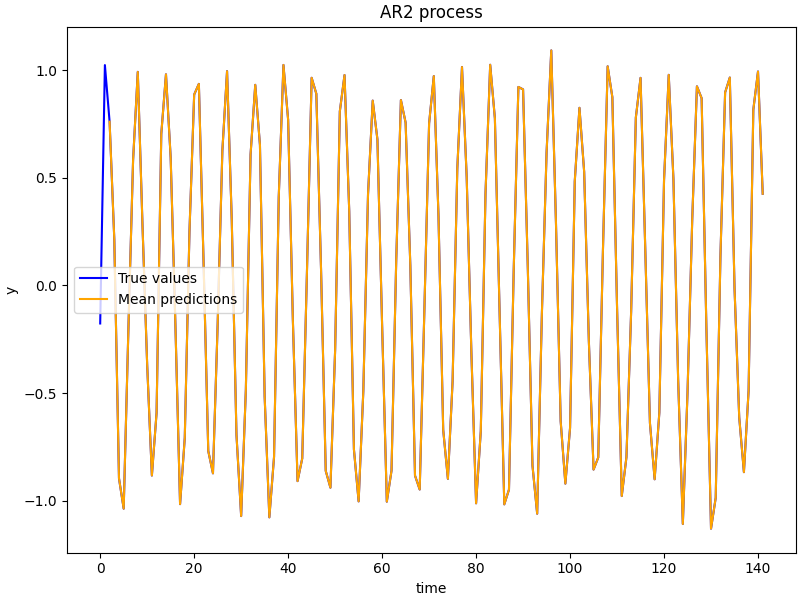
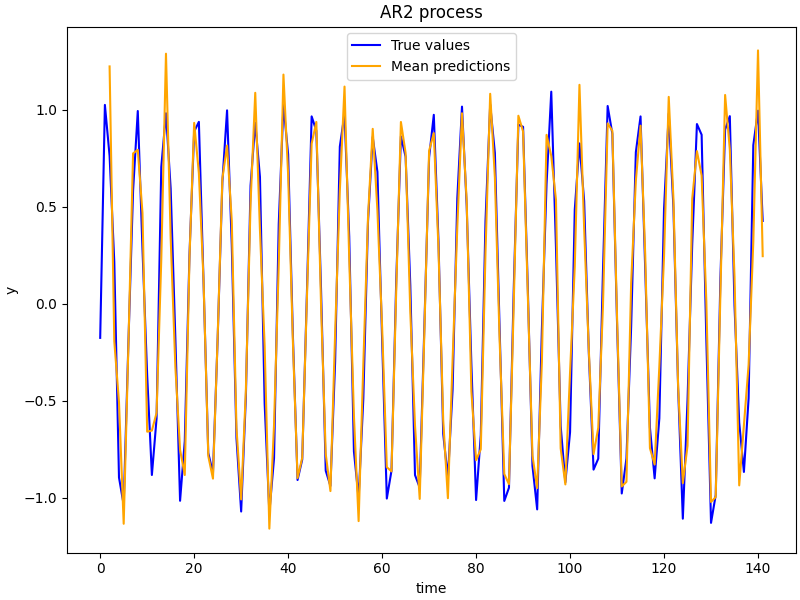
use m_t for plot

diff --git a/examples/ar2.py b/examples/ar2.py
@@ -56,7 +56,7 @@ def ar2_scan(y):
         m_t = const + alpha_1 * y_prev + alpha_2 * y_prev_prev
         y_t = numpyro.sample("y", dist.Normal(m_t, sigma))
         carry = (y_t, y_prev)
-        return carry, y_t
+        return carry, m_t
 
     timesteps = jnp.arange(y.shape[0] - 2)
     init = (y[1], y[0])
